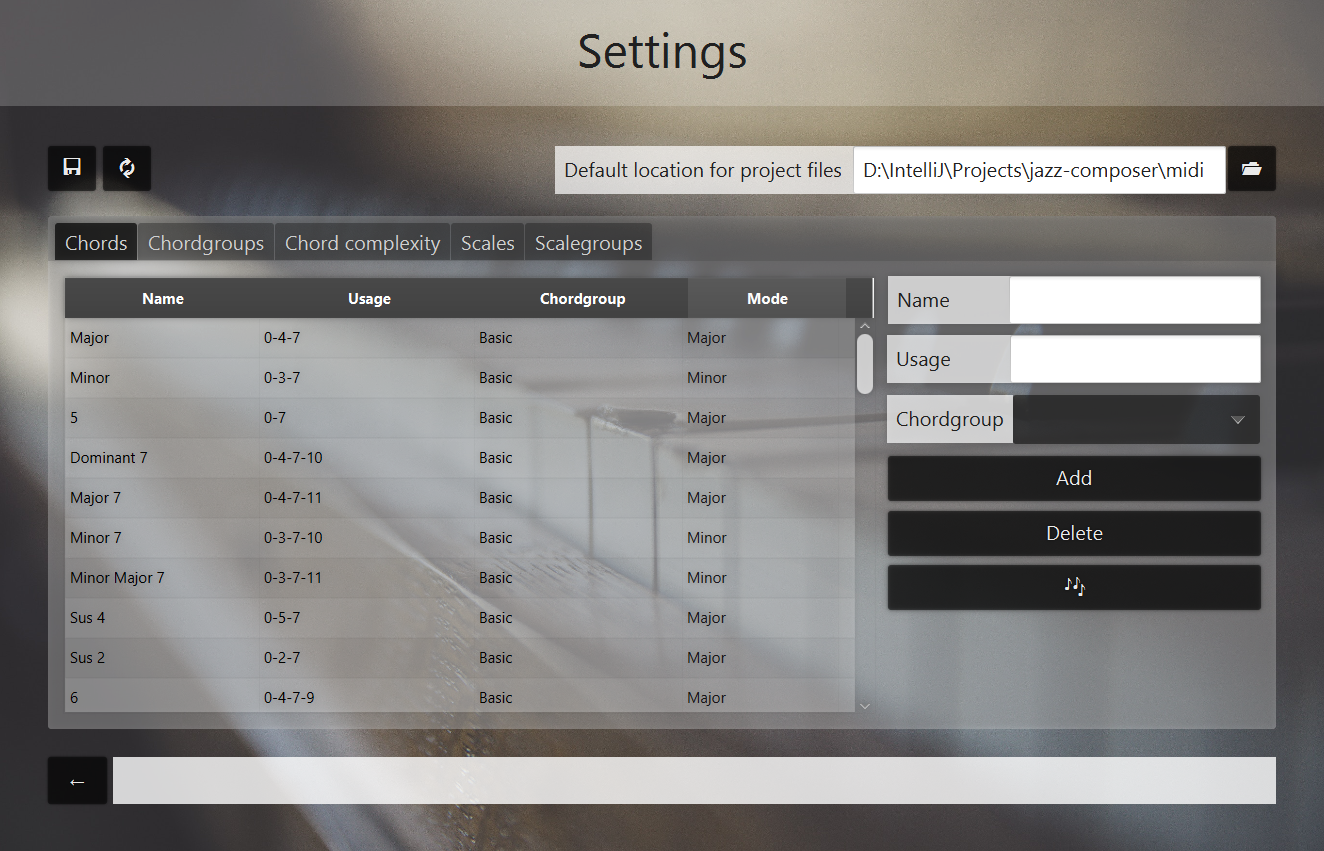
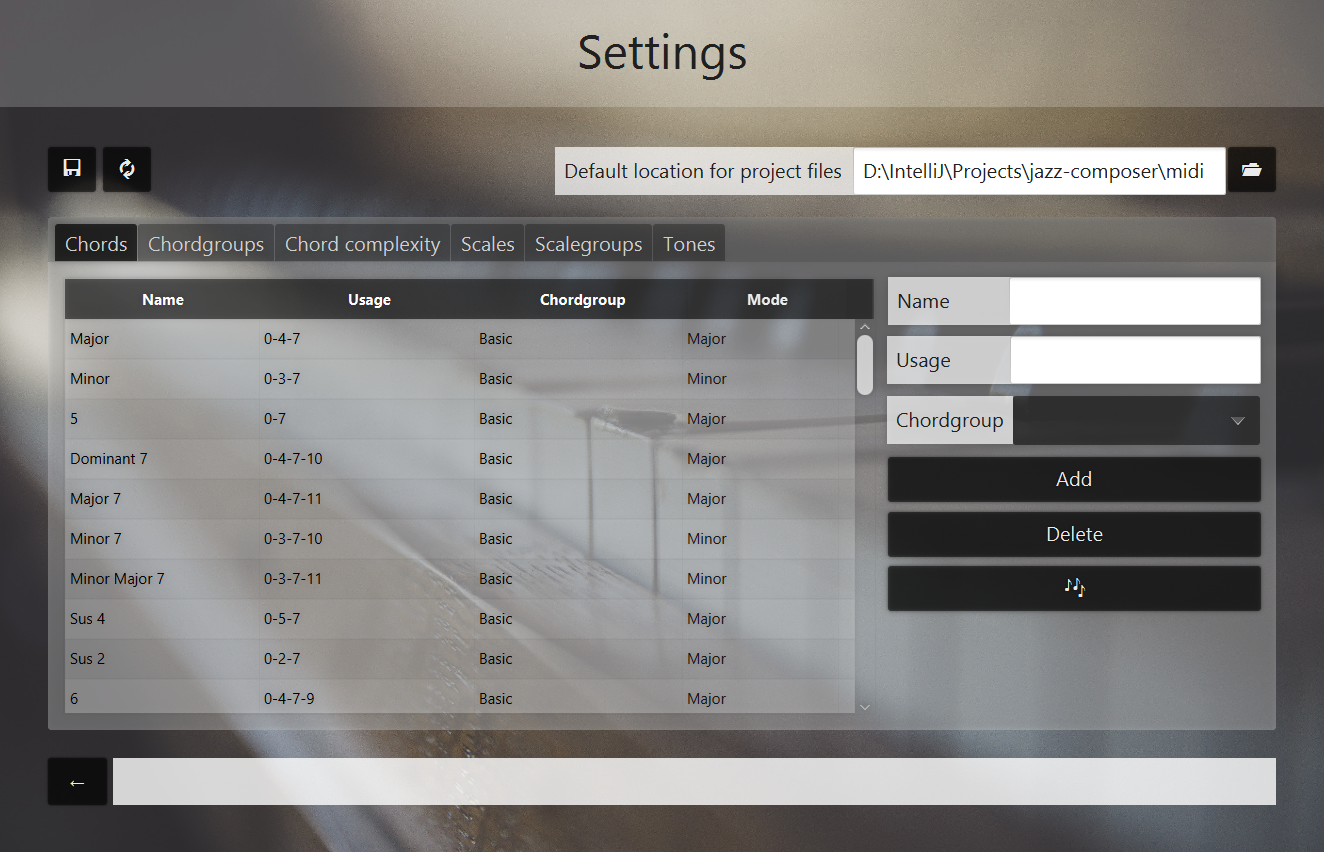
update readme

diff --git a/README.md b/README.md
@@ -18,13 +18,41 @@ Wenn Sie den _jazz-composer_ starten, gelangen Sie zunächst in das Menü. Hier 
 
 ### 2.2 The settings
 
-Manage chordgroups, scalegroups including there chords and scales. Set chordcomplexities. You can use this musicstructures for the later jazz-composing.
-Save the settings by clicking on `💾`.
+Manage chordgroups, scalegroups including there chords and scales. Set chordcomplexities and tones including there pitches. You can use this musicstructures for the later jazz-composing.
+Save the settings by clicking on `💾` or pressing `Ctrl` + `S`.
 Load the default-settings by clicking on `🔃`.
 Set the default folder for project-files by clicking on `📂`.
 
 ![the settings](src/composer/Documentation/settings.PNG  "The settings")
 
-## About
+You can play chords, scales and pitches by selecting an item in a table and click on `🎶`. Add, change and delete items.
 
-![about](src/composer/Documentation/about.PNG  "about")
+## 3. Composing Jazz-Music
+
+### 3.1 Create Backingtrack
+
+Open a MIDI-File by clicking `📂`. 
+Save Backingtrack as MIDI-file by clicking on `💾`. 
+Clear the Backingtrack by clicking on `❌`.
+Play Backingtrack by clicking on `🎶`.
+View Backingtrack as *JMusi-Project* by clicking on `🎼`.
+
+Create Backingtrack by clicking on `Compose`.
+
+In the *General* overview you can activate or deactivate the instruments Piano, Bass and Drums. Set the tone, the tempo and the number of repetitions.
+The Backingtrack will be composed in *Swing* and *4/4*-Tact.
+
+![create backingtrack 1](src/composer/Documentation/backingtrack-1.PNG  "Create Backingtrack 1")
+
+In the *Pattern* overview you can design the pattern for the Backingtrack. Set the transpose-key, the chordgroup and the to be considered chord. 
+Continue by choosing the chordcomplexity.
+Set the pattern-interval to `Semi` if you want to use the patternelement in a half part of a *4/4*-Tact.
+Otherwise set the pattern-interval `Full` for using the whole *4/4*-Tact. 
+
+![create backingtrack 2](src/composer/Documentation/backingtrack-2.PNG  "Create Backingtrack 2")
+
+## 4. About
+
+Development: Philipp Barnickel
+
+Review: Prof. Dr. Eckhard Kruse
